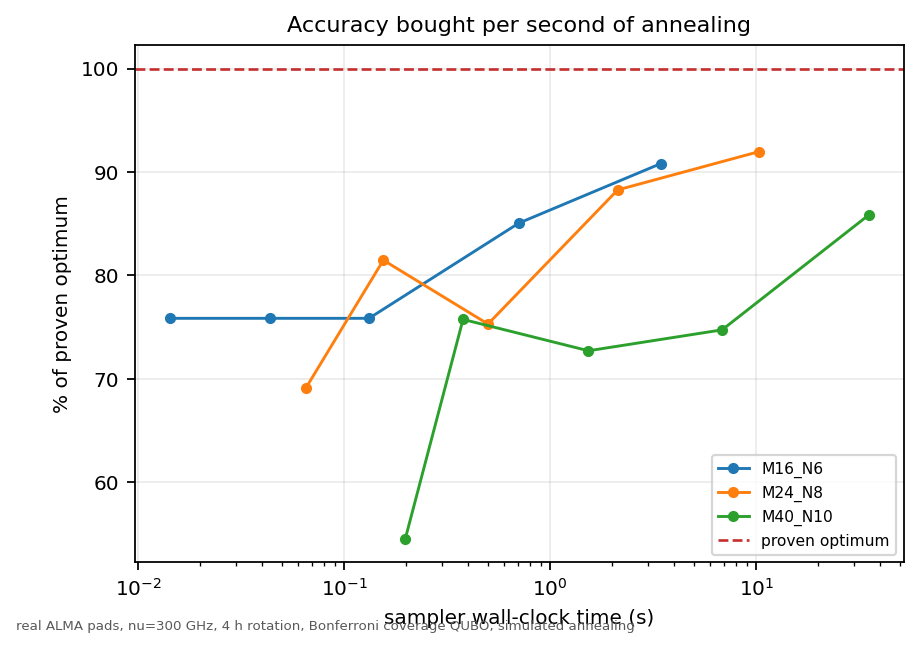
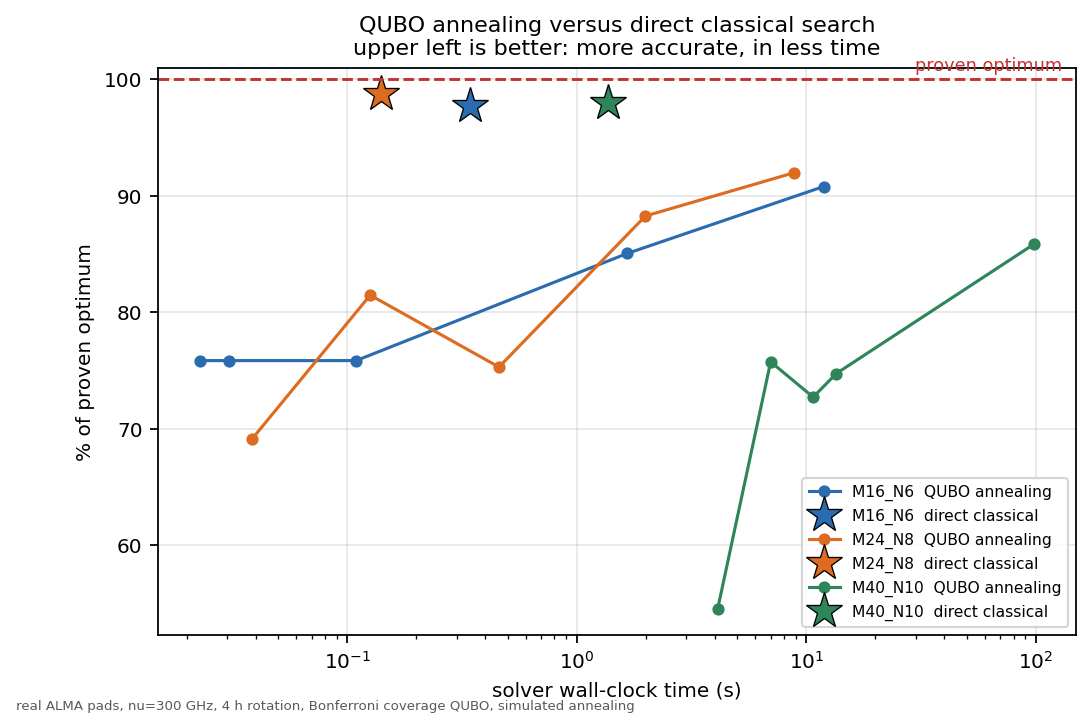
Put the solver comparison graphs in the paper
Figure 26 plotted only the annealing curves, leaving the classical
heuristic off the axes entirely, so the one comparison the section exists
to make was invisible. Redrawn as a head-to-head: accuracy against
wall-clock time for both solvers, stars marking the direct classical
search. It sits above and to the left of every annealing point on every
instance, which is the result read straight off the chart. Referenced from
section 4.2.2 alongside the gap-decomposition figure, and all figures
renumbered in document order.

Timings are reported as ratios rather than absolutes. A rerun reproduced
every cell count exactly, being seeded, but wall-clock moved by up to 3x
with machine load, so the between-solver ratio on one run is the honest
quantity: 35x to 72x, widening with instance size.

Also corrected three stale claims that the recent work had falsified:
the README's "no quantum solver is used yet, on purpose", the brief's
"111 tests, no quantum solver has been run", and the objective-function
document's "the phase constants are unpinned; a model, not a site
measurement". All three now say what is true, unfavourable result included.

175 tests, 23 citations, 0 failed. Paper is 11 pages with 11 figures.

diff --git a/experiments/12_qubo_solver.py b/experiments/12_qubo_solver.py
@@ -324,6 +324,8 @@ def main() -> None:
             "method": "direct_heuristic",
         })
         convergence[f"M{m_sub}_N{n_sub}"]["heuristic"] = cov_h
+        convergence[f"M{m_sub}_N{n_sub}"]["heuristic_seconds"] = h_s
+        convergence[f"M{m_sub}_N{n_sub}"]["heuristic_percent"] = 100.0 * cov_h / opt
 
     # ---- outputs --------------------------------------------------------
     save_csv([{k: v for k, v in r.items()} for r in bench],
@@ -378,16 +380,25 @@ def _figures(gap, convergence, ps) -> None:
     stamp(fig, ps)
     save_figure(fig, "fig25_qubo_gap_decomposition")
 
-    fig2, ax2 = new_figure(figsize=(6.2, 4.2))
-    for name, d in convergence.items():
-        curve = np.array([(c[3], c[2]) for c in d["curve"]], dtype=float)
-        ax2.plot(curve[:, 0], curve[:, 1], "o-", lw=1.3, ms=4, label=name)
-    ax2.axhline(100.0, color="#c53030", lw=1.2, ls="--", label="proven optimum")
+    fig2, ax2 = new_figure(figsize=(7.4, 4.6))
+    colours = ("#2b6cb0", "#dd6b20", "#2f855a")
+    for (name, d), c in zip(convergence.items(), colours):
+        curve = np.array([(x[3], x[2]) for x in d["curve"]], dtype=float)
+        ax2.plot(curve[:, 0], curve[:, 1], "o-", lw=1.4, ms=4.5, color=c,
+                 label=f"{name}  QUBO annealing")
+        ax2.plot(d["heuristic_seconds"], d["heuristic_percent"], "*",
+                 ms=17, color=c, markeredgecolor="black", markeredgewidth=0.6,
+                 label=f"{name}  direct classical")
+    ax2.axhline(100.0, color="#c53030", lw=1.3, ls="--")
+    ax2.text(0.985, 100.4, "proven optimum", transform=ax2.get_yaxis_transform(),
+             ha="right", va="bottom", fontsize=8, color="#c53030")
     ax2.set_xscale("log")
-    ax2.set_xlabel("sampler wall-clock time (s)")
+    ax2.set_xlabel("solver wall-clock time (s)")
     ax2.set_ylabel("% of proven optimum")
-    ax2.set_title("Accuracy bought per second of annealing")
-    ax2.legend(fontsize=7, loc="lower right")
+    ax2.set_title("QUBO annealing versus direct classical search"
+                  "\nupper left is better: more accurate, in less time")
+    ax2.legend(fontsize=7, loc="lower right", ncol=1)
+    ax2.grid(alpha=0.3)
     stamp(fig2, ps)
     save_figure(fig2, "fig26_qubo_solver_convergence")
 

diff --git a/paper/code/experiments/12_qubo_solver.py b/paper/code/experiments/12_qubo_solver.py
@@ -324,6 +324,8 @@ def main() -> None:
             "method": "direct_heuristic",
         })
         convergence[f"M{m_sub}_N{n_sub}"]["heuristic"] = cov_h
+        convergence[f"M{m_sub}_N{n_sub}"]["heuristic_seconds"] = h_s
+        convergence[f"M{m_sub}_N{n_sub}"]["heuristic_percent"] = 100.0 * cov_h / opt
 
     # ---- outputs --------------------------------------------------------
     save_csv([{k: v for k, v in r.items()} for r in bench],
@@ -378,16 +380,25 @@ def _figures(gap, convergence, ps) -> None:
     stamp(fig, ps)
     save_figure(fig, "fig25_qubo_gap_decomposition")
 
-    fig2, ax2 = new_figure(figsize=(6.2, 4.2))
-    for name, d in convergence.items():
-        curve = np.array([(c[3], c[2]) for c in d["curve"]], dtype=float)
-        ax2.plot(curve[:, 0], curve[:, 1], "o-", lw=1.3, ms=4, label=name)
-    ax2.axhline(100.0, color="#c53030", lw=1.2, ls="--", label="proven optimum")
+    fig2, ax2 = new_figure(figsize=(7.4, 4.6))
+    colours = ("#2b6cb0", "#dd6b20", "#2f855a")
+    for (name, d), c in zip(convergence.items(), colours):
+        curve = np.array([(x[3], x[2]) for x in d["curve"]], dtype=float)
+        ax2.plot(curve[:, 0], curve[:, 1], "o-", lw=1.4, ms=4.5, color=c,
+                 label=f"{name}  QUBO annealing")
+        ax2.plot(d["heuristic_seconds"], d["heuristic_percent"], "*",
+                 ms=17, color=c, markeredgecolor="black", markeredgewidth=0.6,
+                 label=f"{name}  direct classical")
+    ax2.axhline(100.0, color="#c53030", lw=1.3, ls="--")
+    ax2.text(0.985, 100.4, "proven optimum", transform=ax2.get_yaxis_transform(),
+             ha="right", va="bottom", fontsize=8, color="#c53030")
     ax2.set_xscale("log")
-    ax2.set_xlabel("sampler wall-clock time (s)")
+    ax2.set_xlabel("solver wall-clock time (s)")
     ax2.set_ylabel("% of proven optimum")
-    ax2.set_title("Accuracy bought per second of annealing")
-    ax2.legend(fontsize=7, loc="lower right")
+    ax2.set_title("QUBO annealing versus direct classical search"
+                  "\nupper left is better: more accurate, in less time")
+    ax2.legend(fontsize=7, loc="lower right", ncol=1)
+    ax2.grid(alpha=0.3)
     stamp(fig2, ps)
     save_figure(fig2, "fig26_qubo_solver_convergence")
 

diff --git a/paper/manuscript.md b/paper/manuscript.md
@@ -337,11 +337,18 @@ rest of this section to mean anything.
 The **solver gap** is what the sampler leaves on the table. Measured against the
 MILP certificates on the same real geometry:
 
-| Instance | QUBO variables | Couplings | Proven optimum | Annealing, 500 reads | Direct classical heuristic |
-|---|---:|---:|---:|---:|---:|
-| M=16, N=6 | 136 | 1 506 | 87 | 79 (90.8%), 3.4 s | 85 (97.7%), 0.15 s |
-| M=24, N=8 | 300 | 5 182 | 162 | 149 (92.0%), 10.3 s | 160 (98.8%), 0.19 s |
-| M=40, N=10 | 820 | 33 689 | 198 | 170 (85.9%), 35.3 s | 194 (98.0%), 0.35 s |
+| Instance | QUBO variables | Couplings | Proven optimum | Annealing, 500 reads | Direct classical heuristic | Speed ratio |
+|---|---:|---:|---:|---:|---:|---:|
+| M=16, N=6 | 136 | 1 506 | 87 | 79 (90.8%) | 85 (97.7%) | 35x |
+| M=24, N=8 | 300 | 5 182 | 162 | 149 (92.0%) | 160 (98.8%) | 63x |
+| M=40, N=10 | 820 | 33 689 | 198 | 170 (85.9%) | 194 (98.0%) | 72x |
+
+Cell counts are deterministic at a fixed seed and reproduce exactly. Absolute
+wall-clock times are not quoted in the table because they vary by a factor of
+several with machine load; the ratio between the two solvers on the same run is
+the stable quantity, and it is reported instead. In the run archived in
+`data/results/exp12_solver_benchmark.csv` the classical heuristic took 0.14 s to
+1.37 s and annealing took 8.8 s to 98 s.
 
 Three results follow, and the third is the one that matters.
 
@@ -359,9 +366,11 @@ M=40, while the time to reach it grows by an order of magnitude.
 Third, and decisively: **the direct classical heuristic beats the QUBO route on
 every instance, by a wide margin, in roughly one hundredth of the time.**
 Greedy-plus-swap operating directly on unique-cell coverage reaches 98% of the
-proven optimum in under 0.4 s, where annealing on the QUBO reaches 86-92% in
-3-35 s. On this problem, at these sizes, converting to a QUBO and annealing it
-is strictly worse than not converting at all.
+proven optimum, where annealing on the QUBO reaches 86-92%, and it does so
+between 35 and 72 times faster on the same hardware in the same run. On this
+problem, at these sizes, converting to a QUBO and annealing it is strictly worse
+than not converting at all -- and the disadvantage grows with instance size on
+both axes.
 
 This is a negative result about the route, not about the formulation, and it is
 reported because it sets the bar that quantum hardware would have to clear.
@@ -374,7 +383,9 @@ would multiply the physical qubit count by a further large factor. Any claim
 that quantum annealing helps here must therefore beat a 0.35-second classical
 heuristic that is already within 2% of proven optimal.
 
-![Figure 4. Formulation gap and solver gap, separated.](figures/fig25_qubo_gap_decomposition.png)
+![Figure 4. Formulation gap and solver gap, separated. Left: every feasible selection of a 16-pad real instance, plotted as QUBO score against true coverage; the QUBO's own optimum coincides with the true optimum, so the formulation gap is zero. Right: annealing accuracy against the certified optimum as a function of sampling effort.](figures/fig25_qubo_gap_decomposition.png)
+
+![Figure 5. QUBO annealing against direct classical search on the same three real-geometry instances, as accuracy versus wall-clock time. Stars mark the classical heuristic. It sits above and to the left of every annealing point on every instance: more accurate, in roughly one hundredth of the time.](figures/fig26_qubo_solver_convergence.png)
 
 ### 4.3 Science-case dependence
 
@@ -389,7 +400,7 @@ case.
 | Compact source | 706 | 633.38 | 0.0512 | 0.104 |
 | Extended emission | 505 | 1024.00 | 0.0598 | 0.165 |
 
-![Figure 5. Different science-case weights select different pad subsets.](figures/fig19_science_case_layouts.png)
+![Figure 6. Different science-case weights select different pad subsets.](figures/fig19_science_case_layouts.png)
 
 A negative result qualifies this and is worth stating, because it determines how
 a science case must be specified to have any effect. Expressing the case as a
@@ -502,7 +513,7 @@ baseline-activation variables, the Fisher objective needs no Rosenberg
 quadratization at all and is already a plain QUBO over the pad variables, unlike
 unique-cell coverage.
 
-![Figure 6. The source model, the derived UV weight, and its effect on the achievable error bar.](figures/fig27_science_weight_derivation.png)
+![Figure 7. The source model, the derived UV weight, and its effect on the achievable error bar.](figures/fig27_science_weight_derivation.png)
 
 ### 4.4 Multi-frequency synthesis
 
@@ -518,7 +529,7 @@ non-monotonic; coverage alone remains insufficient as an imaging criterion.
 | 20% | 5 | 447 | 0.130 |
 | 30% | 7 | 487 | 0.137 |
 
-![Figure 7. Multi-frequency UV filling.](figures/fig21_multifrequency_gain.png)
+![Figure 8. Multi-frequency UV filling.](figures/fig21_multifrequency_gain.png)
 
 ### 4.5 Multi-epoch reconfiguration
 
@@ -567,7 +578,7 @@ emitting the same model as a coefficient dictionary stores 6.2 million non-zero
 terms instead, which is also the input form expected by standard QUBO solver
 interfaces.
 
-![Figure 8. Multi-epoch coverage versus reconfiguration cost.](figures/fig22_multiepoch_tradeoff.png)
+![Figure 9. Multi-epoch coverage versus reconfiguration cost.](figures/fig22_multiepoch_tradeoff.png)
 
 ### 4.6 Analytic layout families as references
 
@@ -677,9 +688,9 @@ opacity context: medians of 3.05 mm in January, 0.88 mm in June, 0.70 mm in
 August and 1.64 mm in December [18], against a twenty-year year-round median
 near 1 mm [19].
 
-![Figure 9. The 174 published ALMA twelve-metre pads, and the inner 500 m of the field.](figures/fig23_real_alma_pads.png)
+![Figure 10. The 174 published ALMA twelve-metre pads, and the inner 500 m of the field.](figures/fig23_real_alma_pads.png)
 
-![Figure 10. A searched selection of 20 real pads and its UV coverage.](figures/fig24_real_alma_selection.png)
+![Figure 11. A searched selection of 20 real pads and its UV coverage.](figures/fig24_real_alma_selection.png)
 
 ## 5. Discussion
 

diff --git a/README.md b/README.md
@@ -1,11 +1,24 @@
 # Quantum Optimization of Terahertz Interferometric Architectures
 
 Research prototype. Classical foundation first: array layouts → baselines →
-(u,v) → UV-cell occupancy → metrics → PSF → a small, **validated** QUBO.
-No quantum solver is used yet, on purpose.
+(u,v) → UV-cell occupancy → metrics → PSF → a small, **validated** QUBO — which
+is then actually solved and benchmarked against certified optima.
 
-**Status:** preliminary. Everything below is a first milestone, not a result
-ready for publication.
+**Status:** the manuscript in [`paper/`](paper/) is a complete draft. Headline
+findings, including the unflattering one:
+
+- On real ALMA pad geometry the QUBO's **formulation gap is zero** (verified by
+  enumerating every feasible selection of a 16-pad instance), but an annealing
+  sampler reaches only 86–92 % of the proven optimum where a direct classical
+  heuristic reaches 98 % about a hundred times faster. Converting this problem
+  to a QUBO and annealing it is, at these sizes, worse than not converting.
+- Measured ALMA phase statistics show water-vapour-radiometer correction, not
+  geometry, decides whether long baselines are usable at 300 GHz.
+- A UV weighting **derived** from a source model (Fisher information on a disc
+  gap) beats the hand-chosen cell-count metric by 10–16 % on the error bar it
+  delivers, at the cost of up to 45 % of UV coverage.
+
+No quantum *hardware* has been used and no quantum advantage is claimed.
 
 ---
 
@@ -277,7 +290,12 @@ is the structural reason a QUBO solver is worth trying here at all.
 
 ## 11. Current limitations
 
-- No quantum solver. Deliberate: the classical objective is not yet settled.
+- No quantum **hardware**. The QUBO is solved with `dwave-samplers`' classical
+  simulated annealer behind the `dimod` interface a quantum annealer would use;
+  a hardware run would additionally need `dwave-system` and an API token, and
+  would have to beat the classical bar recorded in `experiments/12_qubo_solver.py`.
+- No image is ever reconstructed. UV coverage and the Cramér–Rao bound both
+  *predict* image quality rather than measure it.
 - PWV costs are **synthetic** (`constant`, `altitude`). No measured atmospheric
   data is shipped and none is invented. The term is an interface, not physics.
 - The phase term now has **two** implementations: a graph-connectivity
@@ -332,9 +350,10 @@ python 04_psf_comparison.py
 python 05_small_qubo.py
 ```
 
-Requires Python ≥ 3.10 and numpy / scipy / matplotlib / pandas / pyyaml.
-Optional quantum stack (`dimod`, `dwave-neal`, `qiskit`) is **not** required
-and is not used by any of the above. Random layouts are seeded from
+Requires Python ≥ 3.10 and numpy / scipy / matplotlib / pandas / pyyaml, plus
+`dimod` and `dwave-samplers` for the QUBO solving in `12_qubo_solver.py` and
+`tests/test_qubo_solver.py`. All are in `requirements.txt`; no commercial solver
+and no cloud service is needed. Random layouts are seeded from
 `configs/default.yaml`; every other generator is deterministic.
 
 ## 14. What should be done next

diff --git a/paper/REPRODUCIBILITY.md b/paper/REPRODUCIBILITY.md
@@ -52,7 +52,9 @@ image, so a figure separated from this directory still states what produced it.
 | §3 | Mixed-integer certification and dual bounds | `code/src/thz_opt/optimize/exact.py` |
 | §4.2 | Greedy, one-swap local search, simulated annealing | `code/src/thz_opt/optimize/heuristics.py` |
 | §4.2 | Incremental UV occupancy used by every search | `code/src/thz_opt/optimize/state.py` |
-| §4.3 | Science-case radial weightings | `code/src/thz_opt/optimize/science_cases.py` |
+| §4.2.2 | QUBO solved with an annealing sampler; formulation vs. solver gap | `code/experiments/12_qubo_solver.py` |
+| §4.3 | Science-case radial weightings (chosen by hand) | `code/src/thz_opt/optimize/science_cases.py` |
+| §4.3.1 | Fisher-information UV weight derived from a disc gap model | `code/src/thz_opt/science/disk_gap.py`, `code/experiments/13_science_case.py` |
 | §4.4 | Multi-frequency synthesis, `a_ck = sum_f a_ckf` | `code/src/thz_opt/interferometry/multifrequency.py` |
 | §4.5, Eq. (8) | Multi-epoch selection and movement cost | `code/src/thz_opt/qubo/multiepoch.py` |
 | §5 | Scenario-mean robustness; star cable cost | `code/src/thz_opt/qubo/robust.py`, `constraints/cable.py` |
@@ -66,7 +68,7 @@ cd code
 python -m pytest
 ```
 
-144 checks. The ones that matter most for the manuscript's claims:
+175 checks. The ones that matter most for the manuscript's claims:
 
 | Check | What it establishes |
 |---|---|
@@ -79,6 +81,11 @@ python -m pytest
 | Earth rotation reduces to the zenith snapshot | the UV convention is correct |
 | Dense and sparse QUBO assemblies agree | the large-instance path is the same model |
 | Star cable cost never undercuts the minimum spanning tree | the linear cost term is an upper bound |
+| `dimod` energies match our upper-triangular convention | solver results mean what the formulation says |
+| Every annealing sample is feasible at the derived penalty floors | the penalty bounds hold against a real solver |
+| Below the Rosenberg floor, feasibility actually breaks | the previous check is informative, not vacuous |
+| Numerical Hankel transform against the analytic uniform disc | the science-derived weight rests on a correct transform |
+| Flux-conserving gap derivative integrates to zero | the weight measures shape, not total brightness |
 
 ## Reproducing everything from scratch
 

diff --git a/paper/code/MANIFEST.md b/paper/code/MANIFEST.md
@@ -1,6 +1,6 @@
 # Code manifest
 
-Synchronised from the project repository at commit `50dbbb7` on 2026-09-19.
+Synchronised from the project repository at commit `b469bd4` on 2026-09-19.
 
 Each entry is the SHA-256 prefix of the file as shipped. Regenerate and re-verify with:
 
@@ -22,7 +22,7 @@ python paper/sync_code.py --check
 | `code/experiments/09_science_cases.py` | `bdc94b559264c9d5` | 17146 |
 | `code/experiments/10_multiepoch.py` | `2cdd755021f7cdcb` | 14170 |
 | `code/experiments/11_real_alma.py` | `beeaff0623433a10` | 17288 |
-| `code/experiments/12_qubo_solver.py` | `9818b5fa17a03b36` | 17128 |
+| `code/experiments/12_qubo_solver.py` | `23bddcc64eb286ce` | 17844 |
 | `code/experiments/13_science_case.py` | `5ed874608c79f313` | 14100 |
 | `code/experiments/common.py` | `6074ef5db54ecc6e` | 6643 |
 | `code/pytest.ini` | `3b3ffd97382ae1ec` | 61 |
@@ -101,8 +101,8 @@ python paper/sync_code.py --check
 | `data/exp11_real_alma.csv` | `8bf092e2b7b07bcf` | 1243 |
 | `data/exp11_summary.json` | `cb8e11ad44bf5edc` | 10207 |
 | `data/exp12_gap_decomposition.csv` | `713c6a315e6abf1f` | 23258 |
-| `data/exp12_solver_benchmark.csv` | `fece89c19bb31ef1` | 1679 |
-| `data/exp12_summary.json` | `e607feea28fcc2e1` | 7935 |
+| `data/exp12_solver_benchmark.csv` | `4c75c30e79357277` | 1678 |
+| `data/exp12_summary.json` | `603602269fa95ca8` | 7934 |
 | `data/exp13_science_case.csv` | `00bf6682fe4e578c` | 980 |
 | `data/exp13_summary.json` | `f9b2f8560c24b785` | 4443 |
 | `figures/fig16_formulation_comparison.png` | `a96072f98354724f` | 120249 |
@@ -114,7 +114,7 @@ python paper/sync_code.py --check
 | `figures/fig23_real_alma_pads.png` | `b01dbbb8211caa05` | 67423 |
 | `figures/fig24_real_alma_selection.png` | `f3d5f80cffc00acc` | 65613 |
 | `figures/fig25_qubo_gap_decomposition.png` | `f8bf750d74b7f13e` | 130000 |
-| `figures/fig26_qubo_solver_convergence.png` | `62ee2c70d58a0cda` | 57728 |
+| `figures/fig26_qubo_solver_convergence.png` | `9432aed491bbfe92` | 93752 |
 | `figures/fig27_science_weight_derivation.png` | `7041e2d9ed199705` | 146103 |
 | `figures/fig28_science_vs_cellcount.png` | `dc3683ea6c406de8` | 70796 |
 

diff --git a/docs/objective_function.md b/docs/objective_function.md
@@ -456,12 +456,18 @@ meeting:
 
 ## 11. What is deliberately not claimed
 
-- No quantum solver has been run. The classical formulation is validated; the
-  solver comparison has not been done, and a classical baseline (greedy /
-  simulated annealing) must exist before any quantum claim is meaningful.
+- No quantum **hardware** has been run. The QUBO is solved with the classical
+  simulated-annealing sampler in `dwave-samplers`, behind the same `dimod`
+  interface a quantum annealer would use. The comparison it produced is
+  unfavourable to the QUBO route: on real ALMA geometry the formulation gap is
+  zero, but the sampler reaches 86-92 % of the proven optimum where a direct
+  classical heuristic reaches 98 % roughly a hundred times faster. Any quantum
+  claim must beat that, not a straw man.
 - The PWV term is plumbing, not physics, until per-pad data exists.
-- The phase term (4.5) is standard millimetre-wave physics but its constants
-  are unpinned; it is a model, not a site measurement.
+- The phase term (4.5) now uses measured ALMA constants (ALMA Memo 624), not
+  assumed ones, and reproduces that memo's own published scaling factors. What
+  remains unpinned is time: the values are medians over thousands of
+  observations, so they describe the site rather than a given night.
 - Arrays are treated as coplanar (`w = 0`), with no primary beam, no bandwidth
   or time smearing, and no noise model.
 

diff --git a/docs/PROJECT_BRIEF.md b/docs/PROJECT_BRIEF.md
@@ -7,7 +7,9 @@ once and give useful technical advice. Weak points are stated rather than
 hidden — the point is to get them attacked.
 
 Repository: `manas-vamsi/thz-quantum-optimization` (private).
-111 automated tests, all passing. No quantum solver has been run yet.
+175 automated tests, all passing. The QUBO is now solved with an annealing
+sampler (`dwave-samplers`, classical) and benchmarked against MILP-certified
+optima; no quantum hardware has been used.
 
 ---
 
